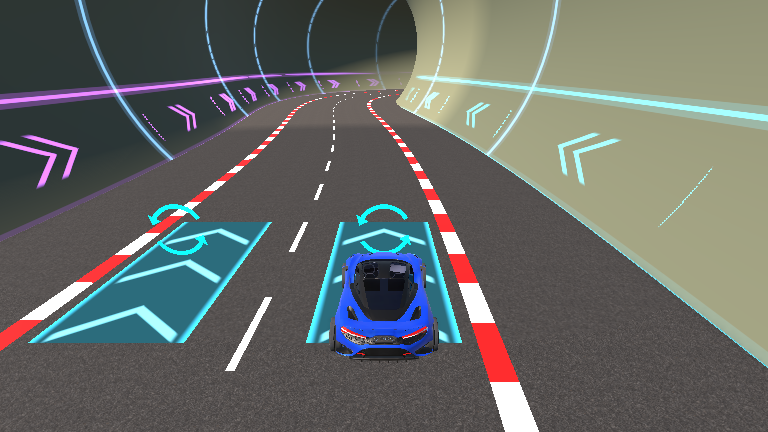
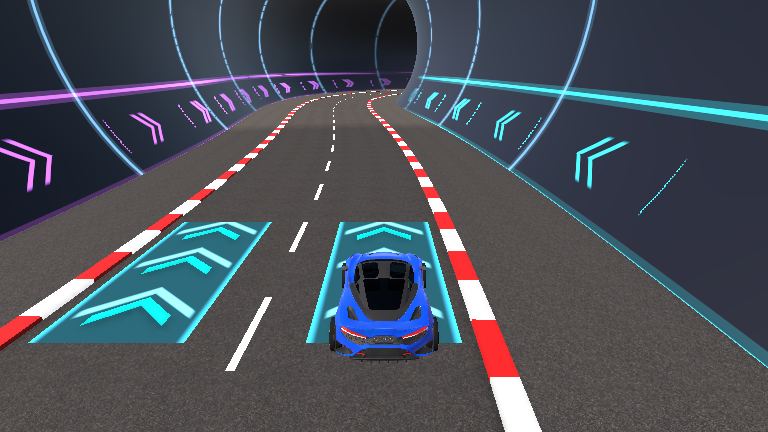
docs(tutorial): refresh acceleration photograph and forward-arrow checks

diff --git a/Assets/Editor/TubeChargeLineValidation.cs b/Assets/Editor/TubeChargeLineValidation.cs
@@ -32,7 +32,7 @@ public static class TubeChargeLineValidation
                 Require(pad.GetComponentsInChildren<Collider>().Length==1,"Arrow effects must be nonphysical");
                 Require(course.IsPointInsideTube(pad.transform.position+Vector3.up),"Pad must lie inside the tube");
                 Require(Physics.Raycast(pad.transform.position+pad.transform.up*1f,-pad.transform.up,out var hit,2f,Physics.DefaultRaycastLayers,QueryTriggerInteraction.Ignore)&&Mathf.Abs(Vector3.Dot(hit.point-pad.transform.position,pad.transform.up))<.05f,"Pad must be flush with the road");
-                var arrow=pad.GetComponentInChildren<RotatingBoostArrows>();var forward=arrow.transform.forward;var rotation=arrow.transform.rotation;arrow.SetPhase(.8f);Require(Quaternion.Angle(rotation,arrow.transform.rotation)>20f,"Arrow effect must visibly rotate");Require(Vector3.Dot(forward,arrow.transform.forward)>.999f,"Rotation must retain the road direction");
+                var arrow=pad.GetComponentInChildren<ForwardBoostArrows>();arrow.SetPhase(0);var position=arrow.transform.GetChild(0).localPosition;arrow.SetPhase(.25f);Require(arrow.transform.GetChild(0).localPosition.z>position.z,"Arrow must travel forward along the pad");Require(arrow.transform.localRotation==Quaternion.identity,"Pad arrows must not rotate");
                 Require(pad.GetComponentInChildren<MeshRenderer>().sharedMaterial.shader.name=="Racing/AccelerationPadFlow","Flowing arrow material is required");
             }
             var first=layout.Pads[0];car.transform.SetPositionAndRotation(first.transform.position+first.transform.up*.7f,first.transform.rotation);body.position=car.transform.position;body.rotation=car.transform.rotation;body.linearVelocity=first.transform.forward*10f;Physics.SyncTransforms();
@@ -48,7 +48,7 @@ public static class TubeChargeLineValidation
             features.SetValidationFeature(RaceFeature.TubeChargeLines,false);Require(!layout.VisualsVisible&&!first.TryActivate(mover)&&controller.Notice.Length==0,"OFF hides and disables the pads");
             features.SetValidationFeature(RaceFeature.TubeChargeLines,true);Require(layout.VisualsVisible,"ON restores the pads");
             car.transform.rotation=Quaternion.LookRotation(-first.transform.forward,first.transform.up);body.rotation=car.transform.rotation;Physics.SyncTransforms();Require(!first.TryActivate(mover),"Wrong-way travel cannot collect the tube boost");
-            Debug.Log("TUBE_ACCELERATION_VALIDATION_PASS: two real pads, flush triggers, no old lines, existing speed boost not charge, feedback, rotation direction, OFF/ON and wrong-way rejection.");
+            Debug.Log("TUBE_ACCELERATION_VALIDATION_PASS: two real pads, flush triggers, no old lines, existing speed boost not charge, feedback, forward arrow travel, OFF/ON and wrong-way rejection.");
         }
         finally{Gmanager.Control=previous;Object.DestroyImmediate(root);if(layout!=null){var pads=course.transform.Find("Tube acceleration pads");if(pads!=null)Object.DestroyImmediate(pads.gameObject);Object.DestroyImmediate(layout);}}
     }

diff --git a/Assets/Editor/TutorialPhotoBuilder.cs b/Assets/Editor/TutorialPhotoBuilder.cs
@@ -15,6 +15,24 @@ public static class TutorialPhotoBuilder
     private static readonly List<GameObject> temporary=new List<GameObject>();
     private static GameObject prefab;
     private static RaceCourse course;
+    public static void UpdateAcceleration()
+    {
+        EditorSceneManager.OpenScene("Assets/Scenes/SampleScene.unity");
+        course=Object.FindFirstObjectByType<RaceCourse>();prefab=Object.FindFirstObjectByType<Gmanager>().carPrefab;
+        course.RebuildCache();course.RebuildRoad();Physics.SyncTransforms();
+        try
+        {
+            var light=New("Photography fill");var lamp=light.AddComponent<Light>();lamp.type=LightType.Directional;lamp.intensity=1.2f;light.transform.rotation=Quaternion.Euler(40,-25,0);
+            var layout=course.GetComponent<TubeChargeLineLayout>()??course.gameObject.AddComponent<TubeChargeLineLayout>();layout.Configure(course,-1f);
+            Require(layout.Available&&layout.Pads.Count==2,"Need two real tube pads.");
+            course.transform.Find("Tube acceleration pads").gameObject.SetActive(true);
+            var pad=layout.Pads[0];var forward=pad.transform.forward;var up=pad.transform.up;
+            Car(pad.transform.position-forward*3.5f+up*.65f,Quaternion.LookRotation(forward,up));
+            Capture("Acceleration",pad.transform.position-forward*12f+up*6f,pad.transform.position+forward*3f+up*.65f);
+            AssetDatabase.ImportAsset(Output+"/Acceleration.png",ImportAssetOptions.ForceSynchronousImport);
+        }
+        finally {foreach(var item in temporary)if(item!=null)Object.DestroyImmediate(item);temporary.Clear();}
+    }
     public static void Run()
     {
         EditorSceneManager.OpenScene("Assets/Scenes/SampleScene.unity");
@@ -92,6 +110,7 @@ public static class TutorialPhotoBuilder
     private static void Capture(string name,Vector3 eye,Vector3 target,CarItemEffects effects=null,RaceItemType item=RaceItemType.None)
     {
         foreach(var arrow in Object.FindObjectsByType<RotatingBoostArrows>(FindObjectsSortMode.None))arrow.SetPhase(.4f);
+        foreach(var arrow in Object.FindObjectsByType<ForwardBoostArrows>(FindObjectsSortMode.None))arrow.SetPhase(.4f);
         var host=new GameObject("Tutorial photograph camera");var camera=host.AddComponent<Camera>();camera.enabled=false;
         camera.transform.SetPositionAndRotation(eye,Quaternion.LookRotation(target-eye));camera.nearClipPlane=.1f;camera.farClipPlane=1200;camera.fieldOfView=55f;
         GameObject overlay=null;

diff --git a/Assets/Editor/TubePadEffectCapture.cs b/Assets/Editor/TubePadEffectCapture.cs
@@ -4,7 +4,7 @@ using UnityEditor;
 using UnityEngine;
 using Object=UnityEngine.Object;
 
-/// <summary>Records the real floor shader and rotating arrows without editing the photographs.</summary>
+/// <summary>Records the real floor shader and forward arrows without editing the photographs.</summary>
 public static class TubePadEffectCapture
 {
  public static void Run()
@@ -23,7 +23,7 @@ public static class TubePadEffectCapture
    for(int i=0;i<24;i++)
    {
     float time=i/8f;
-    foreach(var arrow in layout.GetComponentsInChildren<RotatingBoostArrows>())arrow.SetPhase(time);
+    foreach(var arrow in layout.GetComponentsInChildren<ForwardBoostArrows>())arrow.SetPhase(time);
     foreach(var renderer in layout.GetComponentsInChildren<MeshRenderer>())if(renderer.sharedMaterial.HasProperty("_PreviewTime"))renderer.sharedMaterial.SetFloat("_PreviewTime",time);
     camera.Render();if(image==null)image=new Texture2D(960,540,TextureFormat.RGB24,false);RenderTexture.active=output;image.ReadPixels(new Rect(0,0,960,540),0,0);image.Apply();
     File.WriteAllBytes($"{directory}/frame-{i:000}.png",image.EncodeToPNG());
@@ -31,7 +31,7 @@ public static class TubePadEffectCapture
     if(i==4)
     {var current=image.GetPixels32();int changed=0;for(int k=0;k<current.Length;k++)if(Math.Abs(current[k].r-first[k].r)+Math.Abs(current[k].g-first[k].g)+Math.Abs(current[k].b-first[k].b)>40)changed++;if(changed<current.Length/500)throw new InvalidOperationException("Boost arrows did not visibly animate");}
    }
-   Debug.Log("TUBE_PAD_ANIMATION_CAPTURE_PASS: actual shader flow and rotating arrow pixels change between phases.");
+   Debug.Log("TUBE_PAD_ANIMATION_CAPTURE_PASS: actual shader flow and forward arrow pixels change between phases.");
   }
   finally
   {
